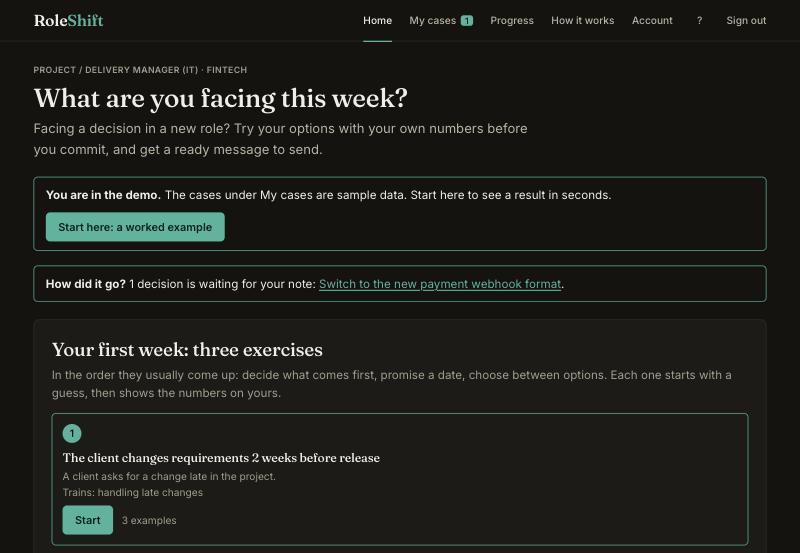
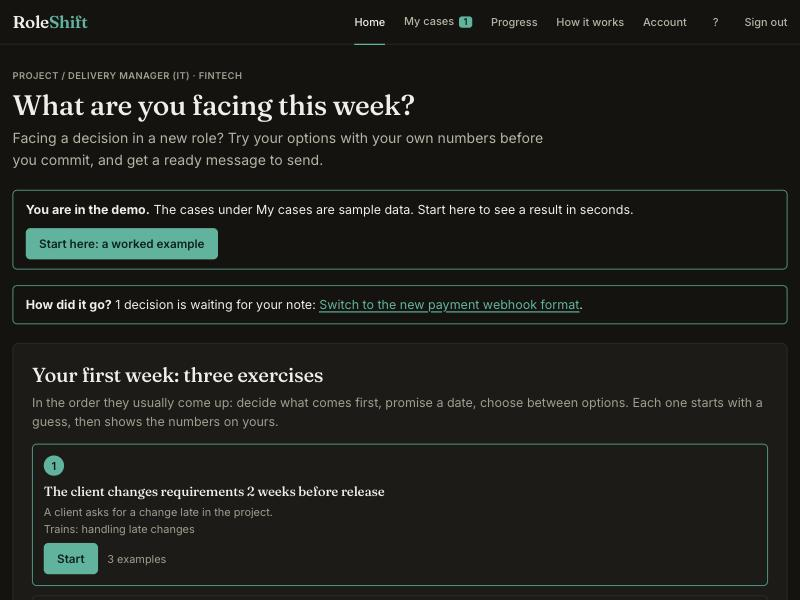
Guides: new English screenshots of the redesigned forms, live panel, review, result table, What if, document; agent guide matches the screens

diff --git a/docs/USER_GUIDE.en.md b/docs/USER_GUIDE.en.md
@@ -1,63 +1,70 @@
 # RoleShift: how to use it
 
-A judgement trainer for the newly promoted. You enter **your own** numbers, make a **guess** first, then see a calculation, decide, get a ready message or document, and later record how it went. The calculation is deterministic: it is not a forecast or advice, and the decision is yours.
+A judgement trainer for the newly promoted. You enter **your own** numbers, make a **guess** first, then see a calculation, decide, get a ready message or document, and later record how it went. The calculation is done by code, not by an AI: the same inputs always give the same numbers. It is a guide based on what you enter, not a forecast.
 
-Test site: https://businesscup-2-0-zimran.vercel.app (English only). The first sign-in after a quiet period can take a few seconds.
+Test site: https://businesscup-2-0-zimran.vercel.app (English only, built for a computer screen). The first request after a quiet period can take a few seconds.
 
 ## 1. Sign in
-Press **"Try the demo"** on the sign-in page: a demo account with examples opens, no sign-up needed. For your own account use an email and password, then pick your position and time in role (this chooses examples and wording).
+Press **Try the demo** on the sign-in page: a temporary demo account with examples opens, no sign-up needed. For your own account use an email and a password, then pick your position and time in the role (this chooses examples and wording).
 
 ![Home](img/01-home.jpg)
 
 ## 2. Pick a situation
-Home shows three "first week" exercises: a client change request, several urgent asks, "when will it be done?". **"Start here: a worked example"** shows a result in seconds. Not sure which fits? Describe it in your own words under "Describe your scenario".
+Home shows three first-week exercises: a client change request, several urgent asks, and "when will it be done?". There is a fourth, choosing between options, under "More exercises". **Start here: a worked example** shows a result in seconds. Not sure what fits? Describe it in your own words under "Describe your scenario".
 
-## 3. Enter your numbers
-Start from a storyline or an empty form. The form is split into 3 or 4 short steps with a progress bar (Next and Back; a step will not continue while a required field is empty). Percentages, hours and ratings are set with a **slider** (type an exact number next to it if you prefer), with a word under the slider showing what you picked. Task and option rows collapse into one-line cards (press Edit to change one), short choices are buttons, and date fields have quick buttons: Today, Tomorrow, This Friday, In 1 week, In 2 weeks. The last step is a **Review** of everything you entered, where you press "Compare my options". Do not enter confidential employer or client information: use rounded or made-up numbers. The **"Money and quality (optional)"** group can stay empty; then the calculation covers time only.
+## 3. Fill in the form: a few short steps
+Each scenario is 2 to 4 steps plus a **Review**, with a progress bar and **Next** / **Back**. A step will not continue while a required field is empty (the fields are highlighted). **Fill with an example** (next to the step counter) loads a ready example; **Start over** clears the form. What you typed survives a reload or the Back button in the same tab.
 
-![A form step with sliders](img/02-form.jpg)
+- **Ratings are sliders with words.** "How critical is this for the client?" runs from *Nice to have* to *Must have*, and the word under the slider shows what you picked.
+- **Quantities** are a slider or a number with − and + buttons and the unit next to it (people, USD, h, days, %).
+- **Dates** have quick buttons: Today, Tomorrow, This Friday, In 1 week, In 2 weeks.
+- **Optional things** sit behind **Add more detail** in each step (a penalty, a partial delivery, the price of an extra hour, a description).
 
-![The review step](img/02b-review.jpg)
+![A step with a word slider and the live panel](img/02a-form-change.jpg)
 
-## 4. Guess, then see the numbers
-Before the result you can guess (how many tasks finish late, which order is best, which date you could promise). You can skip. The server then scores the guess against the numbers, and **Progress** collects your accuracy. This is agreement with the calculator on your numbers, not a judgement of real-life decisions.
+![Numbers with steppers, units and date buttons](img/02b-form-numbers.jpg)
 
-![Your guess first](img/06-guess.jpg)
+**Task and option cards.** Tasks and options are cards you add, reorder, collapse and remove. Choices inside a card are buttons, and ratings (for example 1 to 5 on a criterion) are sliders with a word (Poor ... Excellent).
+
+![Option cards with sliders](img/02d-form-options.jpg)
+
+**The side panel "Where this stands"** updates while you type. It shows the numbers that follow from what you entered and what is still missing. For scenarios with a guess step it keeps the answer hidden so your guess stays honest; "Show the live result instead" reveals it. Nothing is saved.
+
+![Time and who is asking, with the live panel](img/02c-form-estimate.jpg)
+
+**Review** lists what you entered by step, with an **Edit** link for each. Then confirm you entered no confidential information and press **Compare my options**.
+
+![Review](img/03-review.jpg)
+
+## 4. Guess first, then the numbers
+For three scenarios (priorities, a deadline, choosing between options) a screen asks what you think the numbers will say. Answer, or press **Skip**. Afterwards the result page shows your guess next to the calculation, and **Progress** counts how often you matched it. This measures agreement with the calculator on your own numbers, not how good your decisions are in real life.
+
+![Your guess first](img/04-guess.jpg)
 
 ## 5. Read the result
-At the top: "Best by the numbers". Below, one column per option: dates, lateness, "What to watch" and a risk label (a rule of thumb; "Why this label" shows how it was made). If you filled in money and scope, a table **"Time, money, quality: what you pay with"** appears: every way to fix lateness (cut scope, pay for hours, move a deadline) costs something different. Quality is judged by the share of scope cut (up to 15% low risk, up to 35% medium, above that high): a rule, not a measurement. **"Challenge my numbers"** recalculates with worse numbers to see if the conclusion holds.
+At the top is a one-sentence answer, then one column per option with dates or costs, "What to watch" and a risk label. The label is a rule of thumb: **Why this label** lists the points, the thresholds, and a block "What counted in this label" for time, money and quality. If you entered money or scope inputs, a table **Time, money, quality** shows what each choice costs on the three axes.
 
-![Result](img/03-results.jpg)
+![The time, money, quality table and What if](img/05-result-table.jpg)
+
+![Why this label](img/06-why-label.jpg)
+
+**What if?** (before you decide) lets you drag two or three of the numbers that move the outcome and see the answer change next to the saved one. Nothing changes until you press **Save these numbers**; **Reset** puts the sliders back. **Challenge my numbers** recalculates with worse numbers and says whether the conclusion still holds.
+
+![What if](img/07-whatif.jpg)
 
 ## 6. Decide and get the document
-Choose an option, write your reason and press "Save decision…". You get a ready document (priority proposal, estimate reply, decision memo) with a "Ways to fix it and what each costs" section. Edit it, copy it or download .md. Check the facts before sending.
+Choose an option, write your reason and press **Save decision**. You get a ready document (a Change Request, a priority proposal, an estimate reply or a decision note) that you can edit, copy or download as .md. The time, money, quality table stays on the page and is in the document. Check the facts before you send it.
 
-![Document](img/04-document.jpg)
+![Document](img/08-document.jpg)
 
 ## 7. Record the outcome
-Choose when to be asked "how did it go". Optionally an email arrives with "worked / partly / not yet" links (the test site sends no email, SMTP is not connected). **Progress** shows the day out of 90, decisions made, confidence before/after and skills.
+Choose when to be asked "how did it go" and record the outcome later. The test site sends no email unless a mail service is connected. **Progress** shows the day out of 90, decisions made, confidence before and after, and how often your guesses matched the numbers.
 
-![Progress](img/05-progress.jpg)
-
-## Device
-The service is designed for a computer: use a browser on a laptop or desktop. Pages open on a phone, but the forms are long and not optimised for it, so please test on a computer.
-
-## For testers
-- **Sign in:** the "Try the demo" button (a separate temporary account on every press; the data is sample data and can be deleted at any time; there is no shared demo account). For your own position, register and pick it at sign-up (later: Account -> Edit my position).
-- **What to try by role:**
-  - *Team lead*: "Several urgent asks" with the "Money and quality" group filled in, then "Challenge my numbers".
-  - *Director*: "Choose between options" (criteria Time / Cost / Quality).
-  - *Project manager*: "Client change request", then the message to the client.
-  - *Chief accountant*: "When will it be ready?" before a period close (three estimates, safe date).
-  - *Officer*: priorities across orders and deadlines (wording adapts to the position).
-  - *Mayor*: choosing between options on a limited budget.
-- **In every scenario:** make a guess, compare it with the calculation, get the document, set a reminder, press "Compare with a chat assistant" in the footer to read how this differs from asking a chat assistant.
-- **What to write down:** where you got stuck and for how many seconds; what was unclear (a word, field or number); whether you believed the calculation and why; whether you would send the document as is or what you would rewrite; whether you would use it again on a real task (yes / no / only if...); which scenario is missing.
-- Send feedback to whoever gave you the link, with the step and a screenshot.
+![Progress](img/09-progress.jpg)
 
 ## Good to know
-- Guided tours can be switched off ("Do not show tours again") and restored in Account.
-- Demo data is sample data and may be deleted; in your own account you are responsible for what you enter, see "Account and data".
-- Free up to 3 situations of your own; after that a test purchase with no real payment.
-- The product is English only.
-- On the free host the first request after idle can take a few seconds.
+- Guided tips can be switched off ("Do not show tours again") and restarted in Account.
+- Demo data is sample data and can be deleted; in your own account you are responsible for what you enter (see "Account and data").
+- Free for 3 situations of your own, then a one-time pass for $19 with a test checkout (no real payment).
+- Pages open on a phone, but the forms are built for a computer screen.
+- For a short test plan and the correct answers to check, see [AGENT_GUIDE.md](AGENT_GUIDE.md).

diff --git a/docs/AGENT_GUIDE.md b/docs/AGENT_GUIDE.md
@@ -37,11 +37,14 @@ Useful addresses (all relative to the site):
 ## 2. The core flow (do this for each of the four scenarios)
 
 1. **Choose a scenario** on Home (press Start) or open its `/new/...` address.
-2. **Fill in the form** (a few steps with a progress bar at the top, "Step n of N"):
-   - Optionally pick a **storyline** (a ready example with made-up numbers) at the top. This is the fastest way to a full form.
+2. **Fill in the form** (2 to 4 steps plus a Review, with a progress bar and "Step n of N"):
+   - **Fill with an example** (a link next to the step counter, first step) loads a ready example with made-up numbers; storyline cards near the top do the same with a choice of three. **Start over** clears the form (it asks to confirm).
    - Press **Next** on each step. A step will not continue while a required field is empty or out of range: you should see highlighted fields and a message. Test this once with an empty form.
-   - Numbers with a small range are **sliders** with a number box next to them and a word under the slider; short choices are buttons; dates have quick buttons (Today, Tomorrow, This Friday, In 1 week, In 2 weeks); task and option rows are collapsible cards (Edit / Collapse / Up / Down / Remove / Add).
-   - The last step is **Review**: it lists what you entered, asks "How confident do you feel", a tick box ("I did not enter confidential ... information") and the **Compare my options** button. The tick box is required.
+   - Ratings and levels are **sliders with a word under them** (for example "How critical is this for the client?" from Nice to have to Must have). Small-range quantities are a slider with a number box and unit; other quantities are a number with − and + buttons and the unit next to it. Short choices are buttons. Dates have quick buttons (Today, Tomorrow, This Friday, In 1 week, In 2 weeks). Tasks, options and criteria are cards (Edit / Collapse / Up / Down / Remove / Add).
+   - Optional inputs are behind a collapsed **Add more detail** section in each step (and inside each task or option card).
+   - The **side panel "Where this stands"** (right of the form) updates after a short pause while you type: it lists what is still needed, then the numbers that follow from your input. For scenarios with a guess step it keeps the answer hidden ("Your guess comes first") unless you press "Show the live result instead"; the change request shows its answer at once.
+   - Reload the page or press the browser Back button in the middle of the form: your values and the step come back (kept in the tab only).
+   - The last step is **Review**: it lists what you entered by step with an **Edit** link for each, asks "How confident do you feel", a tick box ("I did not enter confidential ... information") and the **Compare my options** button. The tick box is required.
 3. **Guess first.** For the priorities, deadline and options scenarios a "What do you think the numbers will say?" screen appears. Either answer (and press "Save my guess and show the numbers") or press "Skip, show me the numbers". The change-request scenario has no guess step.
 4. **Read the result** (page `/case/<id>`, step 2 "Compare"): a one-sentence answer at the top, one column per option, a risk label per option with a "Why this label" link that explains the points and has a "What counted in this label" block (time / money / quality), a "How was this calculated?" section, a **Challenge my numbers** button, and (when optional money or scope inputs exist) a table "Time, money, quality ...".
 5. **Decide.** Click **Choose** on one option, write a reason, press "Save decision and create ...". A ready document appears (editable, Copy, Download .md) and a debrief.
@@ -51,20 +54,21 @@ Useful addresses (all relative to the site):
 
 The calculation is fixed. These checks do not depend on today's date. Amounts in the table are shown without thousands separators (for example 18900) and in USD; the result columns and the document may show 32,700 with a separator.
 
-**Change request** (`/new/client-change-request`). Enter: priority Important; team size 6; cost per person-day 600; budget 40000; change effort 10 person-days; buffer 2 days; client pays 0%; penalty 0; assumptions unchanged (overhead 25%, parallel 60%, productive share 70%); release date a weekday at least 3 weeks away; "share you would deliver now" 60.
+**Change request** (`/new/client-change-request`). Enter: priority Important; people 6; cost of one person-day 600; budget left 40000; work in the change 10 person-days; spare days 2; client pays 0%; penalty 0; the assumptions in "Add more detail" unchanged (extra for testing 25%, shareable work 60%, productive day 70%); release date a weekday at least 3 weeks away; in "Add more detail" "how much would you deliver now" 60.
 - Accept as is: effort with overhead 12.5 person-days, added working time 9 days, release slips 7 working days, labour 7,500, extended run 25,200, **extra cost 32,700**, budget left afterwards **7,300**, risk label high.
 - Table row "Accept part of it" (60%): slips **4** working days, money **18,900**, "60% delivered now", quality risk **high (40% cut)** (cut up to 15% is low, up to 35% medium, above that high).
 - "Defer to the next release": money **8,100** (600 to re-plan now plus 7,500 later). "Decline": money 0.
-- Clear the "share you would deliver" box: the "Accept part of it" row must say "not set", not a number.
+- Clear the "how much would you deliver now" box: the "Accept part of it" row must say "not set", not a number.
+- On the result page, in **What if?**, drag "How much work is the change?" up: the "If accepted" numbers in the right column must change and be highlighted, and the saved column must stay until you press Save these numbers.
 
 **Competing priorities** (`/new/competing-priorities`). Three tasks of 14, 6 and 8 hours, deadlines within the next working week; hours per week 40, already taken 25.
 - Total hours **28**, free hours per day **3.0**.
-- Open "Money and quality (optional)": give the 14-hour task a minimum version of 8 hours and a cost per late day of 100, set the cost of an extra hour to 30 and extra hours per week to 10. The table must then show "Cut scope on the late tasks" with **21% cut** and quality risk **medium** (6 of 28 hours), plus rows for paying for extra hours and moving a deadline.
+- On step 1 open "Add more detail" inside the 14-hour task card: a minimum version of 8 hours and a cost per late day of 100. On step 2 open "Add more detail": cost of an extra hour 30, extra hours per week 10. The table must then show "Cut scope on the late tasks" with **21% cut** and quality risk **medium** (6 of 28 hours), plus rows for paying for extra hours and moving a deadline.
 - The ordering by earliest deadline must match the dates you entered. Whichever option is marked "Least damage on these numbers" must be the one with the smallest weighted lateness.
 
 **Asked for a deadline** (`/new/asked-for-a-deadline`). Estimates: best 8, likely 16, worst 40 hours; 20 free hours a week; interruptions 20%.
 - The "safe date" must be later than the "likely" date, and the optimistic date earliest. Chances shown rise with later dates.
-- With "good-enough share" 70% and an extra-hours price entered, the table shows "Deliver the good-enough version" (**30% cut, quality risk medium**) and "Pay to speed up".
+- In "Add more detail" on step 2, with "share a good-enough version needs" 70% and an extra-hour price entered, the table shows "Deliver the good-enough version" (**30% cut, quality risk medium**) and "Pay to speed up".
 
 **Choose between options** (`/new/choose-between-options`). The form starts with the criteria Time, Cost and Quality (weight 3 each).
 - The winner must be the option with the highest weighted score = sum(weight x score) / (sum of weights x 5) x 100. Check one by hand.
@@ -80,7 +84,7 @@ The calculation is fixed. These checks do not depend on today's date. Amounts in
 - **Account**: Account and data (export, delete). Do not delete the demo account unless you finish the whole test.
 - **Pricing and test checkout** (`/pricing`): the pass is **$19**, one-time, no real payment. After 3 cases of your own a free account is asked to buy the pass; the demo account may differ.
 - **Compare page** (`/compare`): must say honestly what a chat assistant does better. Flag any claim you think is unsupported.
-- **Back and refresh**: refresh in the middle of the form (the entries are lost; that is a known limit), use the browser Back button, open a case in a second tab.
+- **Back and refresh**: refresh in the middle of the form (entries and step should come back), use the browser Back button, open a case in a second tab (a new tab starts with an empty form).
 
 ## 5. API route (optional, for exact checks)
 
@@ -119,5 +123,5 @@ Send one report with these parts. Keep it factual.
 - Email reminders are not sent from the test site (no mail service is connected); the "send now" button only logs.
 - The first request after idle is slow; the data of demo accounts can be removed at any time.
 - Risk labels, the "quality" rating and the guess score are rules of thumb on your own inputs, not measurements of real-life results. Money and quality do not change a risk label except where "What counted in this label" says so.
-- Refreshing the form loses what was typed (no draft saving).
-- The time, money and quality table appears only when the optional money or scope inputs are filled (for the change request, the "share you would deliver" box).
+- The unsaved form is kept only in the same browser tab (session storage); a new tab or a closed tab starts empty.
+- The time, money and quality table appears only when the optional money or scope inputs are filled (for the change request, the "how much would you deliver now" box).

diff --git a/README.md b/README.md
@@ -106,7 +106,7 @@ Short step-by-step tips (popovers anchored to real elements) appear once, the fi
 
 ## User guide
 
-For an independent tester or AI agent: [docs/AGENT_GUIDE.md](docs/AGENT_GUIDE.md) (access, steps, correct answers to check, how to report). How to use the service: [English guide](docs/USER_GUIDE.en.md) (a Russian text version, [docs/USER_GUIDE.ru.md](docs/USER_GUIDE.ru.md), is kept but the product itself is English only).
+For an independent tester or AI agent: [docs/AGENT_GUIDE.md](docs/AGENT_GUIDE.md) (access, steps, correct answers to check, how to report). How to use the service: [English guide](docs/USER_GUIDE.en.md) (the product is English only).
 
 ## Deploy on Vercel
 
